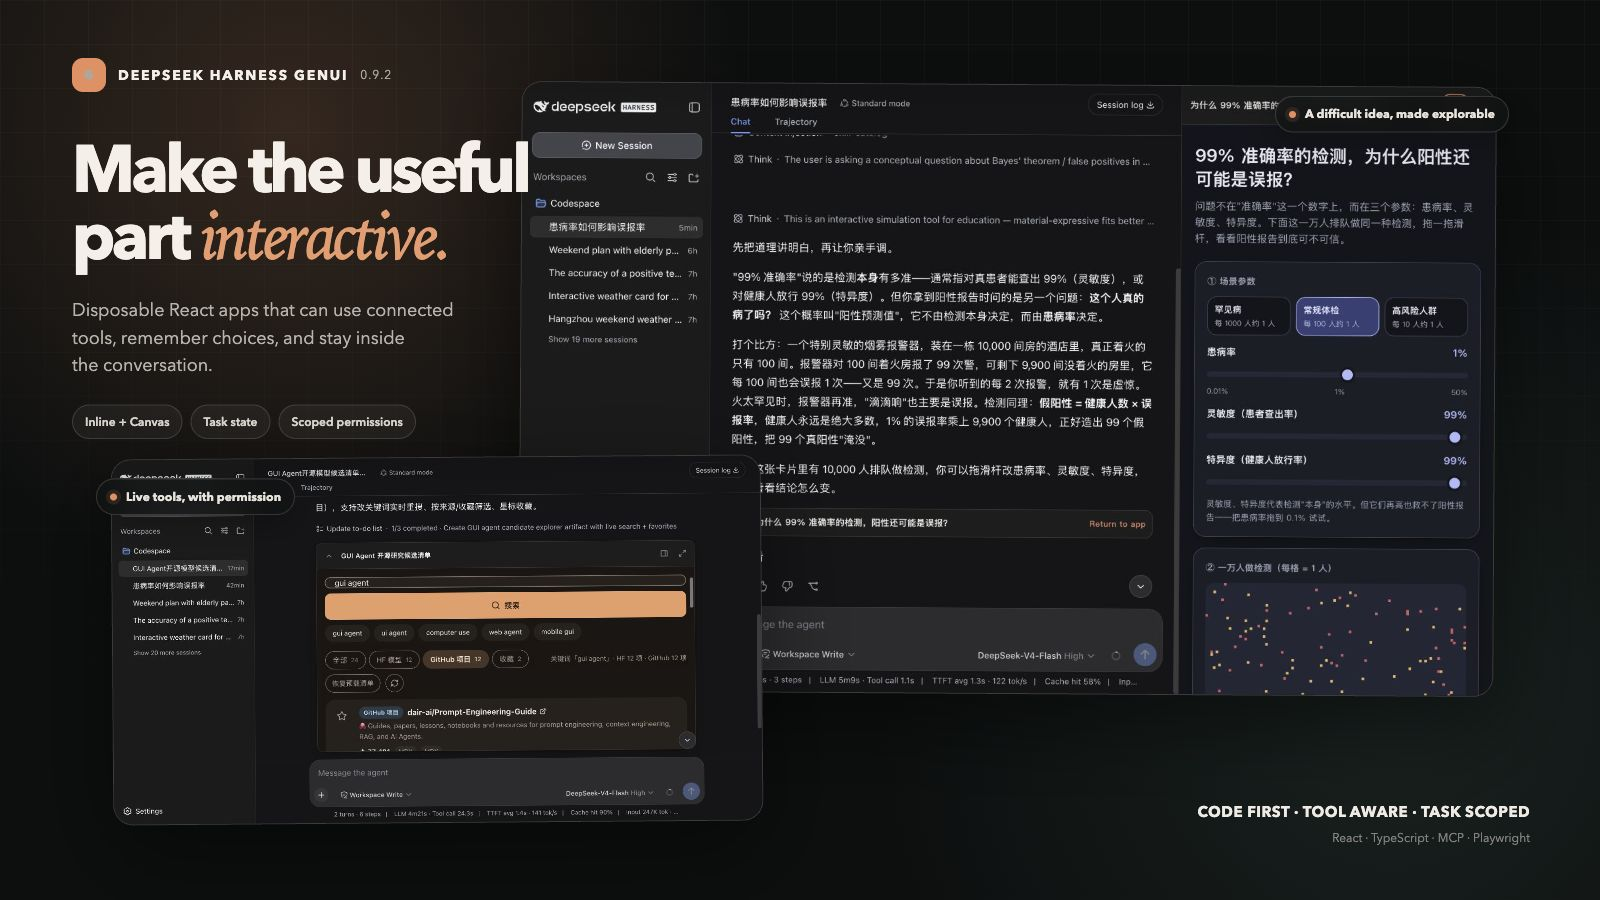
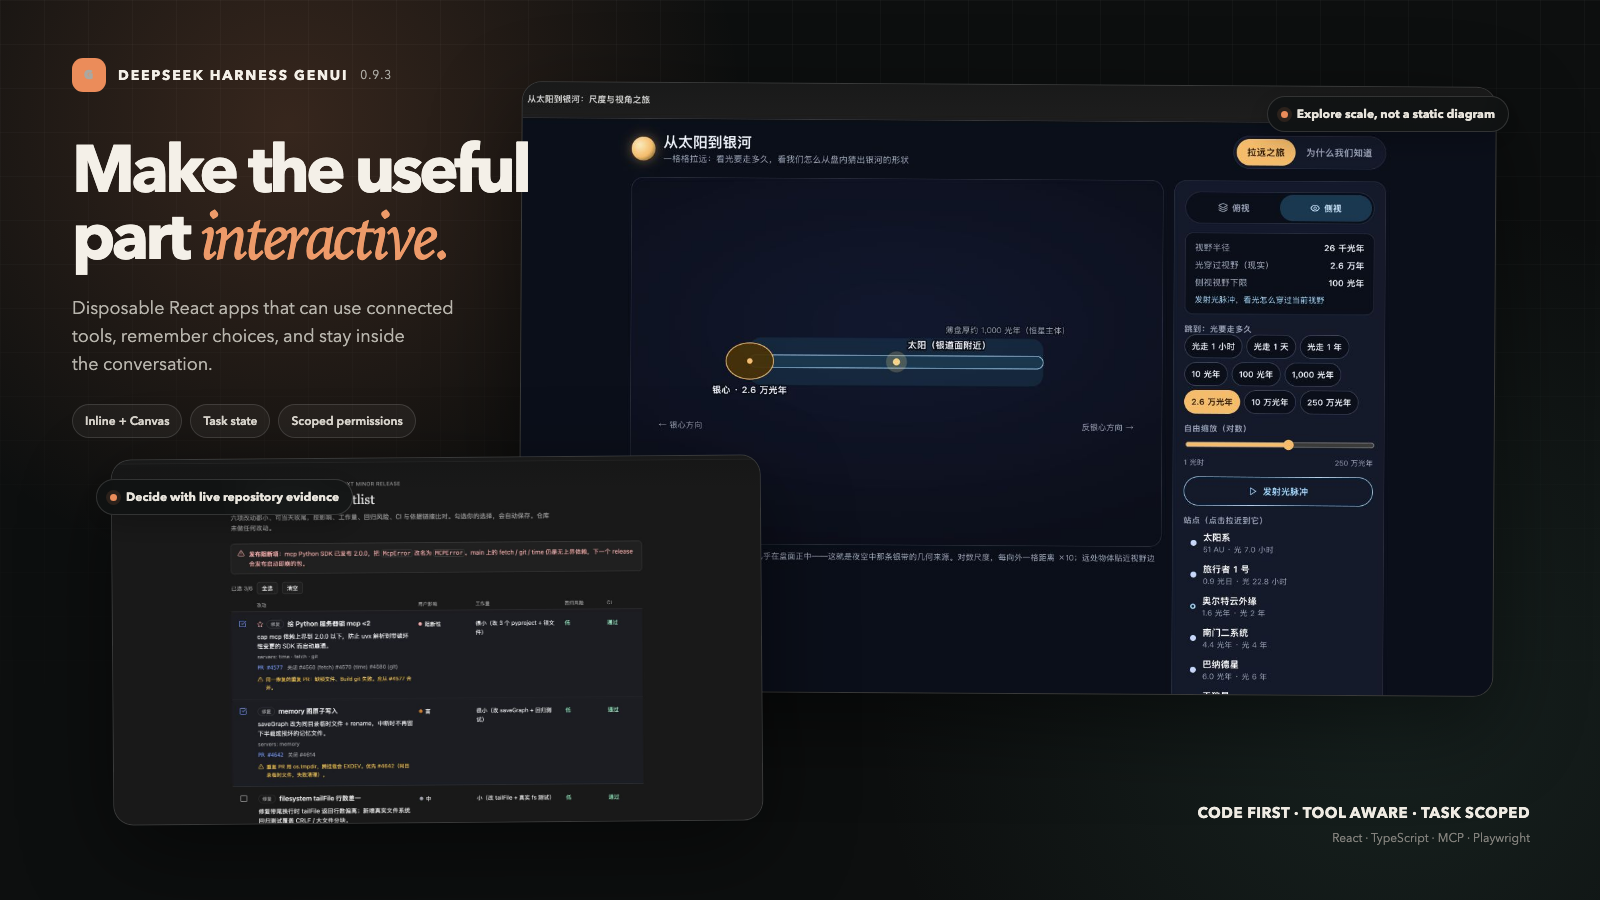
release: demonstrate GenUI 0.9.3 workflows

diff --git a/src/prompt.ts b/src/prompt.ts
@@ -7,11 +7,12 @@ Keep every genui_* call invisible. Every visible assistant sentence must be fina
 This is Code First, not IR First:
 - Write normal multi-file React + TypeScript source. Do not encode the UI as a component JSON tree or other intermediate representation.
 - Every artifact requires src/main.tsx. Prefer src/App.tsx plus focused components, hooks, and styles as complexity grows.
+- Keep the initial app lean: normally 3–5 source files including its stylesheet. Do not split one-use fragments into separate files; add more only when the interaction genuinely needs separate concerns.
 - Available imports are react, react-dom/client, lucide-react, recharts, date-fns, zustand, framer-motion, and @dsh-genui/sdk.
 - @dsh-genui/sdk is a virtual module injected by the artifact compiler. It does not exist in the workspace or node_modules; never search the filesystem for it.
 - Generated artifact source belongs only in genui_create or genui_update arguments. Do not stage it with workspace write/edit tools, do not create a temporary src directory, and do not search the Harness checkout for preview or screenshot helpers.
 - Its runtime contract is: useArtifactState(key, initialValue) returns [value, setValue, { ready, error }]; reportResult(value) saves the concise completed outcome for the next Agent turn; callTool(name, arguments) returns Promise<unknown>; watchTool(name, arguments, onValue, { intervalMs, onError }) returns an unsubscribe function; requestExternal(url, options) returns Promise<{ status: number, headers: Record<string, string>, body: string }>, so JSON responses must be parsed with JSON.parse(body); artifactContext() returns { artifactId, versionId }.
-- Store user answers, selections, drafts, and progress under concise semantic useArtifactState keys. Keep fetched search results, catalogs, and other replaceable response payloads in plain React useState; persist the user's query or selection, not the full external response. Derive reload and empty-state copy from data that actually remains available. When a later user turn refers to what they entered or selected, resume on demand by silently calling genui_state_read before answering or updating the app; do not create background work to wait for that turn.
+- Store user answers, selections, drafts, and progress under concise semantic useArtifactState keys. Keep fetched search results, catalogs, and other replaceable response payloads in plain React useState; persist the user's query or selection, not the full external response. Derive reload and empty-state copy from data that actually remains available. When a later user turn refers to what they entered, selected, confirmed, or just changed in an app, genui_state_read must be the first tool call before any answer or action. Use its current values and __result as the authority; never answer from an earlier chat summary or remembered defaults. Do not create background work to wait for that turn.
 - Call reportResult with a small structured summary when the user submits or completes a form, plan, comparison, or feedback flow. Do not copy large datasets into it.
 - Every genui_create call must include capabilities. Use [] for a local-only app. For each connected action, declare only the exact Harness tool or credential-free HTTPS URL prefix needed, with a natural label, concrete reason, and read/write access. The host asks the user when the app first uses it; never build a permission settings page inside the artifact.
 - When a suitable Harness, MCP, or Skill tool is available, use its exact name through callTool even if the same data also has a public API. Use requestExternal only when no matching connected tool exists, and only for credential-free public HTTPS APIs. Never request, embed, display, or persist API keys, cookies, authorization headers, or other credentials in generated source or state.

diff --git a/tests/prompt.spec.ts b/tests/prompt.spec.ts
@@ -7,6 +7,7 @@ describe('GenUI system prompt', () => {
     expect(GENUI_SYSTEM_PROMPT).toContain('A direct request for an interactive card, simulator, explorable model, or visual control is explicit intent')
     expect(GENUI_SYSTEM_PROMPT).toContain('Never use workspace file, write, edit, shell, or coding tools to create or stage its source, even temporarily')
     expect(GENUI_SYSTEM_PROMPT).toContain('one focused decision or working surface, not a miniature site or dashboard that repeats the answer')
+    expect(GENUI_SYSTEM_PROMPT).toContain('normally 3–5 source files including its stylesheet')
     expect(GENUI_SYSTEM_PROMPT).toContain('Do not create one for ordinary questions, rewriting, summarization, or explanations where interaction does not improve understanding')
     expect(GENUI_SYSTEM_PROMPT).toContain('Do not ask the user to choose a presentation format when the best choice is evident')
     expect(GENUI_SYSTEM_PROMPT).toContain('Keep every genui_* call invisible.')
@@ -35,7 +36,9 @@ describe('GenUI system prompt', () => {
     expect(GENUI_SYSTEM_PROMPT).toContain('build a manipulable causal model around the difficult relationship rather than a dashboard')
     expect(GENUI_SYSTEM_PROMPT).toContain('Keep it to one control group, one main visual, and one dynamic takeaway')
     expect(GENUI_SYSTEM_PROMPT).toContain('Use semantic controls with accessible names')
-    expect(GENUI_SYSTEM_PROMPT).toContain('resume on demand by silently calling genui_state_read')
+    expect(GENUI_SYSTEM_PROMPT).toContain('genui_state_read must be the first tool call before any answer or action')
+    expect(GENUI_SYSTEM_PROMPT).toContain('Use its current values and __result as the authority')
+    expect(GENUI_SYSTEM_PROMPT).toContain('never answer from an earlier chat summary or remembered defaults')
     expect(GENUI_SYSTEM_PROMPT).toContain('Use at most one targeted read per requested source')
     expect(GENUI_SYSTEM_PROMPT).toContain('A 429, Retry-After, or an explicit exhausted-quota response is rate limiting')
     expect(GENUI_SYSTEM_PROMPT).toContain('Disable every control that can start the same operation while it is pending')

diff --git a/assets/hero.html b/assets/hero.html
@@ -53,16 +53,16 @@
   </style>
 </head>
 <body>
-  <div class="brand"><span class="mark">G</span><strong>DeepSeek Harness GenUI</strong><span>0.9.2</span></div>
+  <div class="brand"><span class="mark">G</span><strong>DeepSeek Harness GenUI</strong><span>0.9.3</span></div>
   <section class="copy">
     <h1>Make the useful part <em>interactive.</em></h1>
     <p class="lede">Disposable React apps that can use connected tools, remember choices, and stay inside the conversation.</p>
     <div class="chips"><span class="chip">Inline + Canvas</span><span class="chip">Task state</span><span class="chip">Scoped permissions</span></div>
   </section>
-  <figure class="shot concept"><img src="../screenshots/v0.8.5-bayes-canvas.png" width="1440" height="900" alt="An interactive probability explainer open beside a conversation"></figure>
-  <div class="caption cap-concept"><i></i>A difficult idea, made explorable</div>
-  <figure class="shot tools"><img src="../screenshots/v0.9.0-live-sources.png" width="1280" height="720" alt="A live GitHub and Hugging Face shortlist inside the Harness"></figure>
-  <div class="caption cap-tools"><i></i>Live tools, with permission</div>
+  <figure class="shot concept"><img src="../screenshots/v0.9.3-milky-way-galactic-scale.png" width="1440" height="900" alt="An interactive model showing the Sun and the Milky Way at galactic scale"></figure>
+  <div class="caption cap-concept"><i></i>Explore scale, not a static diagram</div>
+  <figure class="shot tools"><img src="../screenshots/v0.9.3-github-release-fullscreen.png" width="1440" height="900" alt="A release shortlist grounded in live GitHub evidence"></figure>
+  <div class="caption cap-tools"><i></i>Decide with live repository evidence</div>
   <footer class="footer"><strong>CODE FIRST · TOOL AWARE · TASK SCOPED</strong><span>React · TypeScript · MCP · Playwright</span></footer>
 </body>
 </html>

diff --git a/tests/tools.e2e.spec.ts b/tests/tools.e2e.spec.ts
@@ -102,7 +102,7 @@ createRoot(document.getElementById('root')!).render(<App />)`,
     expect(repaired).toMatchObject({ artifact_id: 'tool-flow', status: 'ready' })
     expect(lastRenderedContent).toEqual([{
       type: 'text',
-      text: 'This result is final and fully checked. Run no more tools and end the turn immediately without adding text. Only if the transport requires nonempty final text, write one neutral 2–5 word handoff in the user\'s language that does not claim completion or make a choice for the user; do not copy a fixed phrase. Never say a page is ready or repeat its title, recommendation, values, sections, controls, schedule, budget, or checklist.',
+      text: 'This successful result must be the last emitted item. Emit no text and run no tools after it.',
     }])
 
     await registry.updateState('tool-flow', String(agent.id), state => ({ ...state, feedback: { choice: 'quiet route' } }))

diff --git a/src/tools.ts b/src/tools.ts
@@ -53,7 +53,7 @@ function renderReceipt(value: unknown): { type: 'text'; text: string }[] {
   if (receipt.status === 'ready') {
     return [{
       type: 'text',
-      text: 'This result is final and fully checked. Run no more tools and end the turn immediately without adding text. Only if the transport requires nonempty final text, write one neutral 2–5 word handoff in the user\'s language that does not claim completion or make a choice for the user; do not copy a fixed phrase. Never say a page is ready or repeat its title, recommendation, values, sections, controls, schedule, budget, or checklist.',
+      text: 'This successful result must be the last emitted item. Emit no text and run no tools after it.',
     }]
   }
   const diagnosticText = receipt.diagnostics?.length

diff --git a/tests/mcp-bridge.e2e.spec.ts b/tests/mcp-bridge.e2e.spec.ts
@@ -143,7 +143,7 @@ describe('real MCP artifact bridge', () => {
     expect(zhResponse.status).toBe(200)
     const zhDocument = await zhResponse.text()
     expect(zhDocument).toContain('<html lang="zh">')
-    expect(zhDocument).toContain('app.js?runtime=0.9.2')
+    expect(zhDocument).toContain('app.js?runtime=0.9.3')
     expect(zhDocument).toContain('<meta name="color-scheme" content="light dark">')
 
     const missingLanguage = await fetch(`${origin}/genui/preview/mcp-artifact/${versionId}#token=${token}`)

diff --git a/src/runtime/server.ts b/src/runtime/server.ts
@@ -34,7 +34,7 @@ const MIME: Record<string, string> = {
   '.webp': 'image/webp',
 }
 
-const ARTIFACT_RUNTIME_VERSION = '0.9.2'
+const ARTIFACT_RUNTIME_VERSION = '0.9.3'
 
 function json(res: ServerResponse, status: number, value: unknown, req?: IncomingMessage): void {
   res.writeHead(status, {

diff --git a/examples/real-user-scenarios.md b/examples/real-user-scenarios.md
@@ -1,63 +1,39 @@
 # Real-user acceptance scenarios
 
-These prompts state a goal, not a screen specification. The cases are acceptance tests for judgment and reusable behavior; none should be hard-coded into the plugin.
+These prompts describe a goal, not a screen. None is hard-coded into the plugin.
 
-## Make a decision
+## Prepare a release from live repository evidence
 
-> I want to spend half a day with my parents this weekend. Dad cannot walk far, Mum avoids strong sun, and I would like a good coffee. We are choosing between an indoor exhibition, a riverside walk, and the old town. Keep it under $20 per person and finish by 5 PM. Help us decide.
+> Help me prepare the next small release of `modelcontextprotocol/servers`. Look at recent open issues, pull requests, and failed Actions. Find a set that can be finished in one day, has clear user impact, and keeps regression risk under control. Do not change the repository yet. I want to inspect the evidence and confirm the shortlist before you continue with the release plan.
 
-Give the main recommendation in prose. Use one compact working surface only if comparing and adjusting the few important trade-offs makes the decision easier. Save the final choice so a later question such as “What did we settle on?” can be answered from the user's actual selections.
+The useful surface is a source-linked shortlist. The Agent must distinguish competing PRs, preserve the user's choices, and read them back on the next turn.
 
-## Show an interactive live card
+## Replan a trip around changing constraints
 
-> I will be in Hangzhou from Friday to Sunday. Please make an interactive weather card so I can compare each day, switch between temperature and rain, and refresh the forecast before I leave.
+> I will be in Hangzhou from Friday to Sunday. On Saturday afternoon I am meeting a friend who cannot walk far. We had planned West Lake and the art museum, but if it rains we do not want much walking. I also want some quiet coffee time. Check the weather and rearrange the three days. I want to adjust the trade-offs between walking, indoor time, budget, and free time before you finish the plan.
 
-The explicit request removes presentation ambiguity. Use a connected weather tool when available; otherwise use only an approved credential-free public endpoint. Explain any travel implication briefly in prose, and let the card handle comparison and refresh.
+Weather stays grounded in a named source. Changing one preference should visibly change the itinerary, and the confirmed choices must carry into the next turn.
 
-## Work with connected tools
+## Understand why a positive test can be wrong
 
-> Find promising open-source GUI agent models on Hugging Face, then show me their related GitHub repositories so I can compare activity, license, and fit for a small local experiment. Let me shortlist the ones worth testing.
+> A clinic says a test is 95% accurate, but a friend says a positive result may still be wrong. I have no statistics background. Explain it using 10,000 people and let me change how common the condition is.
 
-Use the exact connected Hugging Face and GitHub tools rather than public HTTP substitutes. Ask for each narrowly scoped read permission only when first needed. Preserve the shortlist and report it back to the Agent for the next turn.
+The interactive part is a population model, not a dashboard: prevalence, sensitivity, and specificity change the true- and false-positive counts and the takeaway.
 
-## Explain one difficult idea
+## Explore what limits photosynthesis
 
-> A clinic says a test is 95% accurate, but a friend says a positive result may still be wrong. I have no statistics background. Explain it using 1,000 people when only 10 actually have the condition.
+> I keep thinking photosynthesis means a plant uses sunlight to make sugar directly, but my teacher says the light reactions and Calvin cycle are different. Help me understand which step becomes limiting when light, carbon dioxide, temperature, or stomatal opening changes. I want to change the conditions myself and watch energy and matter move through the system.
 
-Answer the misconception directly in prose. The useful interactive part is a small causal model where prevalence, sensitivity, and false-positive rate can be changed and the population counts update visibly. It should not look like an analytics dashboard. A follow-up such as “What if 100 out of 1,000 have it?” should update the same surface.
+The model should connect light reactions, ATP/NADPH, the Calvin cycle, photorespiration, heat loss, and sugar output without turning into an encyclopedia page.
 
-## Collect input during a longer task
+## Build an intuition for the scale of the Milky Way
 
-> I need to arrange dinner for 6 people after work on Friday. I know one person is vegetarian, one has a tight budget, and 2 arrival times are uncertain. Move the plan forward; I will come back later and ask what is still missing.
+> I know the Sun is inside the Milky Way, but I have no intuition for the scale. Where is the Sun, how far away is the center, and how many orders of magnitude separate nearby stars from the whole galaxy? Take me from the Solar System outward. I want to change the scale and viewpoint, see how long light takes, and understand how we infer the galaxy's shape from inside it. Do not just list facts.
 
-Give a short coordination recommendation, then collect only the missing booking inputs in a focused surface. After submission, the next Agent turn must read the saved answers instead of guessing or asking for them again.
-
-## Triage a connected work queue
-
-> Look at the open issues in my GitHub project and help me choose what should make the next small release. I care about user impact, effort, and regressions. Do not change anything until I confirm the shortlist.
-
-Read through the connected GitHub tool once, then make the shortlist interactive. Ask only for read permission while exploring. If the user later applies labels or a milestone, request the narrow write permission at that moment and read the result back from GitHub.
-
-## Find a meeting time, then act
-
-> Find 3 good times for a 45-minute design review with Mia and Leon next week. I prefer afternoons, but avoid placing it next to another long meeting. Let me compare the trade-offs before booking.
-
-Use connected calendar availability to present a small comparison, preserving the selected slot in task state. Reading calendars and creating the event are separate permissions. Never book from an initial card load or selection click; wait for an explicit confirmation.
-
-## Explore evidence from several sources
-
-> Compare the main claims in these papers with the latest model cards I can access. I want to see which evidence supports each claim and flag the uncertain ones for follow-up.
-
-Keep the synthesis in prose. Use a compact evidence surface only for source-linked comparison, uncertainty flags, and the user's follow-up list. Fetch each requested source once and preserve provenance; do not fan out into keyword sweeps.
-
-## Monitor a genuinely live operation
-
-> Show me the status of the release I just started. I need to see each stage, refresh it while I watch, and stop if the health check fails.
-
-Use a connected deployment tool and request read access before monitoring. Poll only while the surface is visible, at a service-appropriate interval, and stop on unmount or a terminal state. A stop or rollback action requires a separate write permission and explicit confirmation.
+The useful surface is a logarithmic journey with face-on and edge-on views, landmarks, and light-travel time.
 
 ## Stay with prose
 
 > Rewrite this notice so it sounds natural: We will have the weekly meeting tomorrow at 3 PM. Please prepare your progress for this week in advance.
 
-Return rewritten prose only. An interface would add friction.
+Return prose only. An interface would add friction.

diff --git a/README.md b/README.md
@@ -1,6 +1,6 @@
 # DeepSeek Harness GenUI
 
-[![Version](https://img.shields.io/badge/version-0.9.2-ea8f5a)](package.json)
+[![Version](https://img.shields.io/badge/version-0.9.3-ea8f5a)](package.json)
 [![CI](https://github.com/pengyue-polaron/deepseek-harness-genui/actions/workflows/ci.yml/badge.svg)](https://github.com/pengyue-polaron/deepseek-harness-genui/actions/workflows/ci.yml)
 [![Node.js](https://img.shields.io/badge/Node.js-%E2%89%A522.19-339933?logo=nodedotjs&logoColor=white)](package.json)
 [![License](https://img.shields.io/badge/license-MIT-202124)](LICENSE)
@@ -29,7 +29,7 @@ pnpm run package:plugin
 ```
 
 ```sh
-DSH_HOME=/path/to/dsh-home pnpm dsh plugin --profile web add /absolute/path/to/dsh-plugin-genui-0.9.2.tgz
+DSH_HOME=/path/to/dsh-home pnpm dsh plugin --profile web add /absolute/path/to/dsh-plugin-genui-0.9.3.tgz
 DSH_HOME=/path/to/dsh-home pnpm dsh --profile web
 ```
 
@@ -49,11 +49,10 @@ Add MCP servers to the Harness profile. Generated apps call their exact tool nam
 
 ## Good fits
 
-- Compare a small set of plans, products, models, or time slots.
-- Explore a difficult scientific relationship with one manipulable model.
-- Collect missing inputs during a longer Agent task and resume later.
-- Search, filter, and shortlist live data from connected tools.
-- Monitor a live operation, then ask separately before any write action.
+- Pause a long task at a real decision, then continue from the user's saved choice.
+- Replan around live constraints such as weather, accessibility, budget, or time.
+- Search and shortlist connected data without exposing credentials to the app.
+- Turn a difficult scientific relationship into a manipulable causal model.
 
 Plain questions, rewriting, and straightforward explanations stay in prose. See [`examples/real-user-scenarios.md`](examples/real-user-scenarios.md) for acceptance prompts.
 
